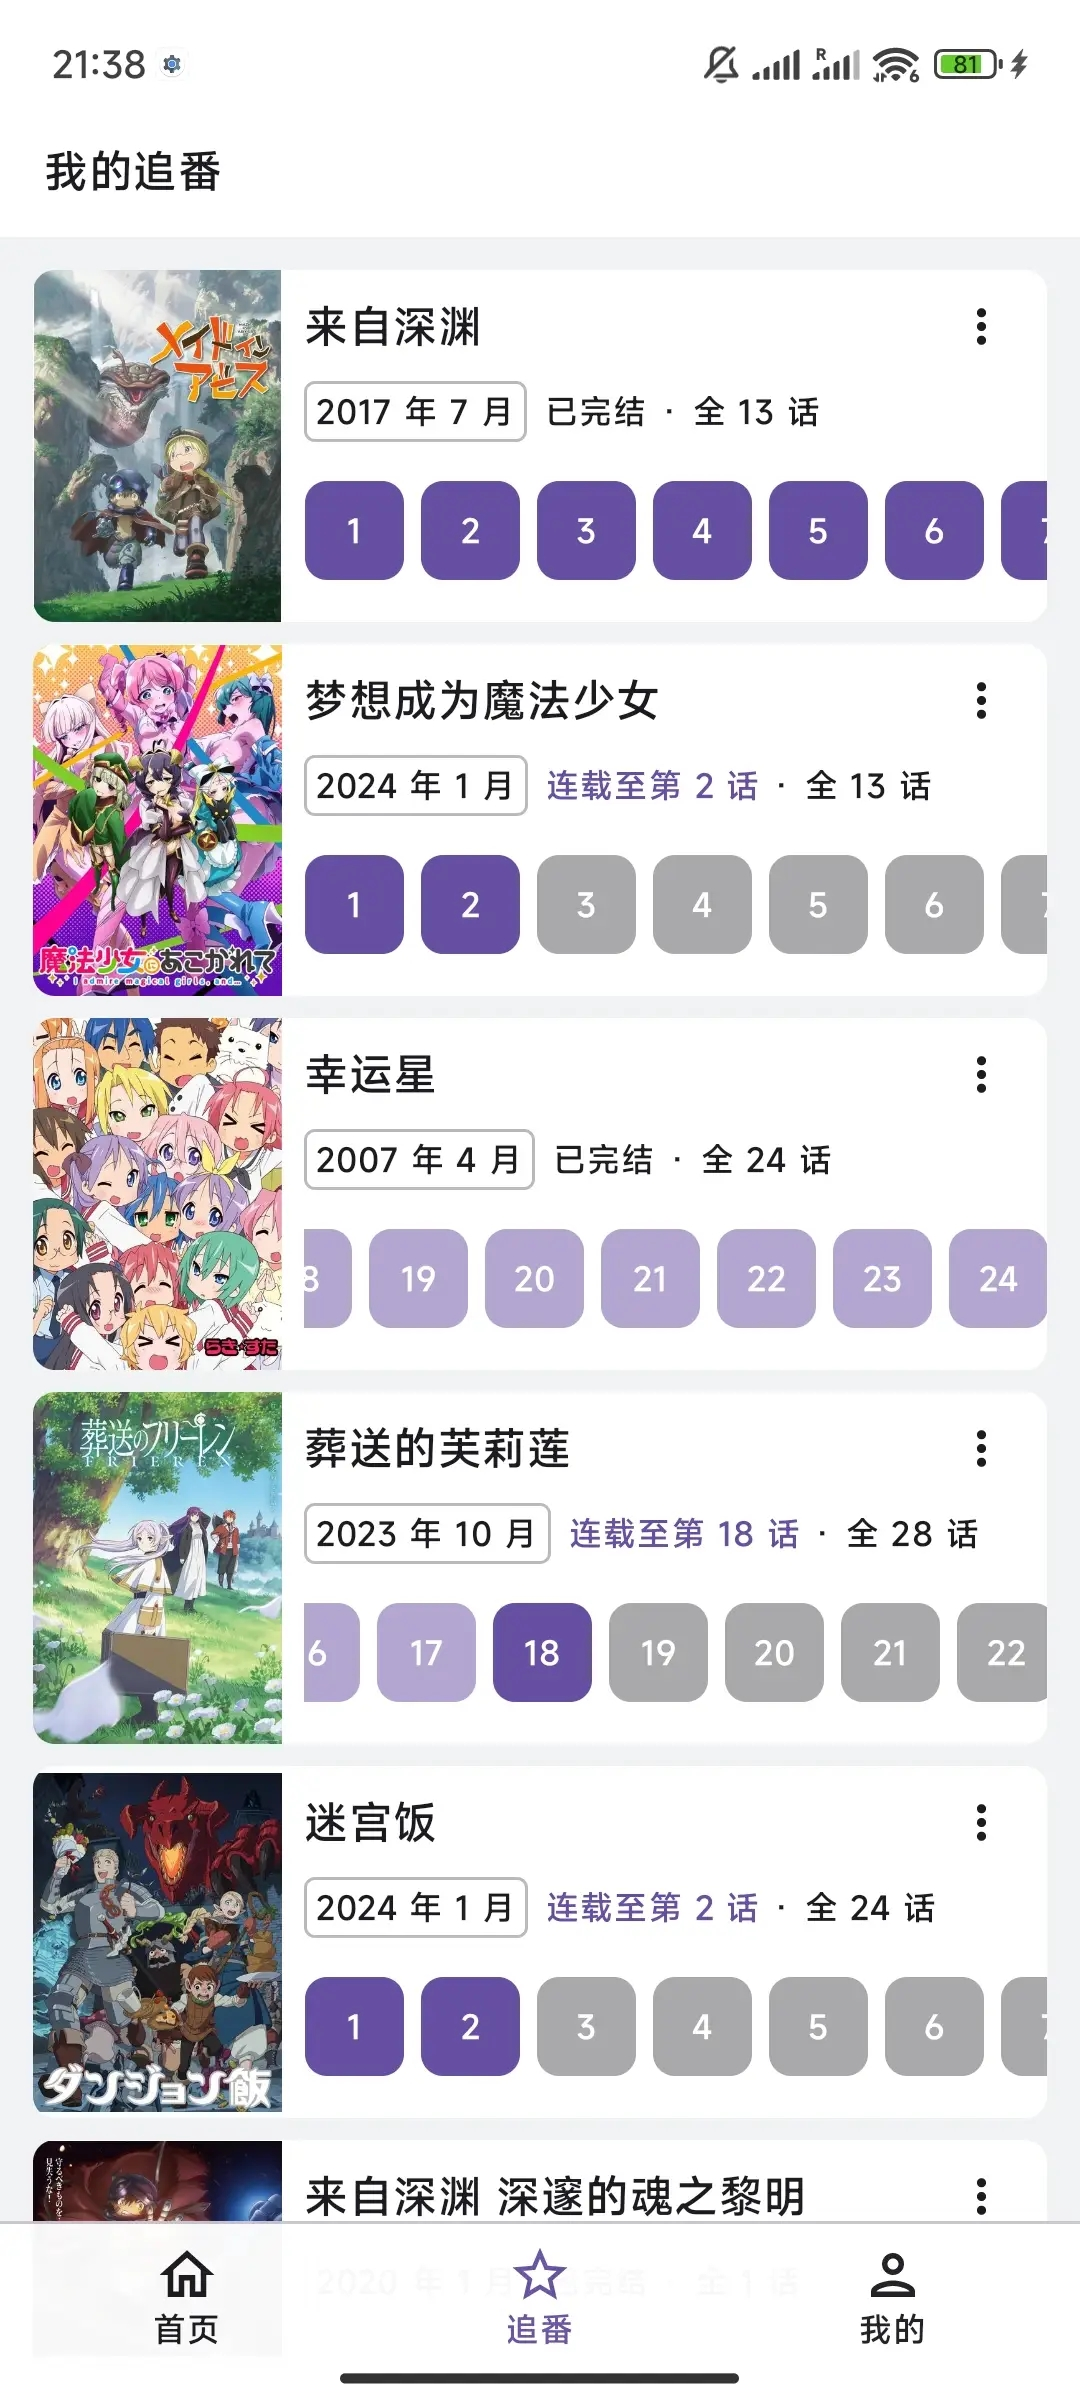
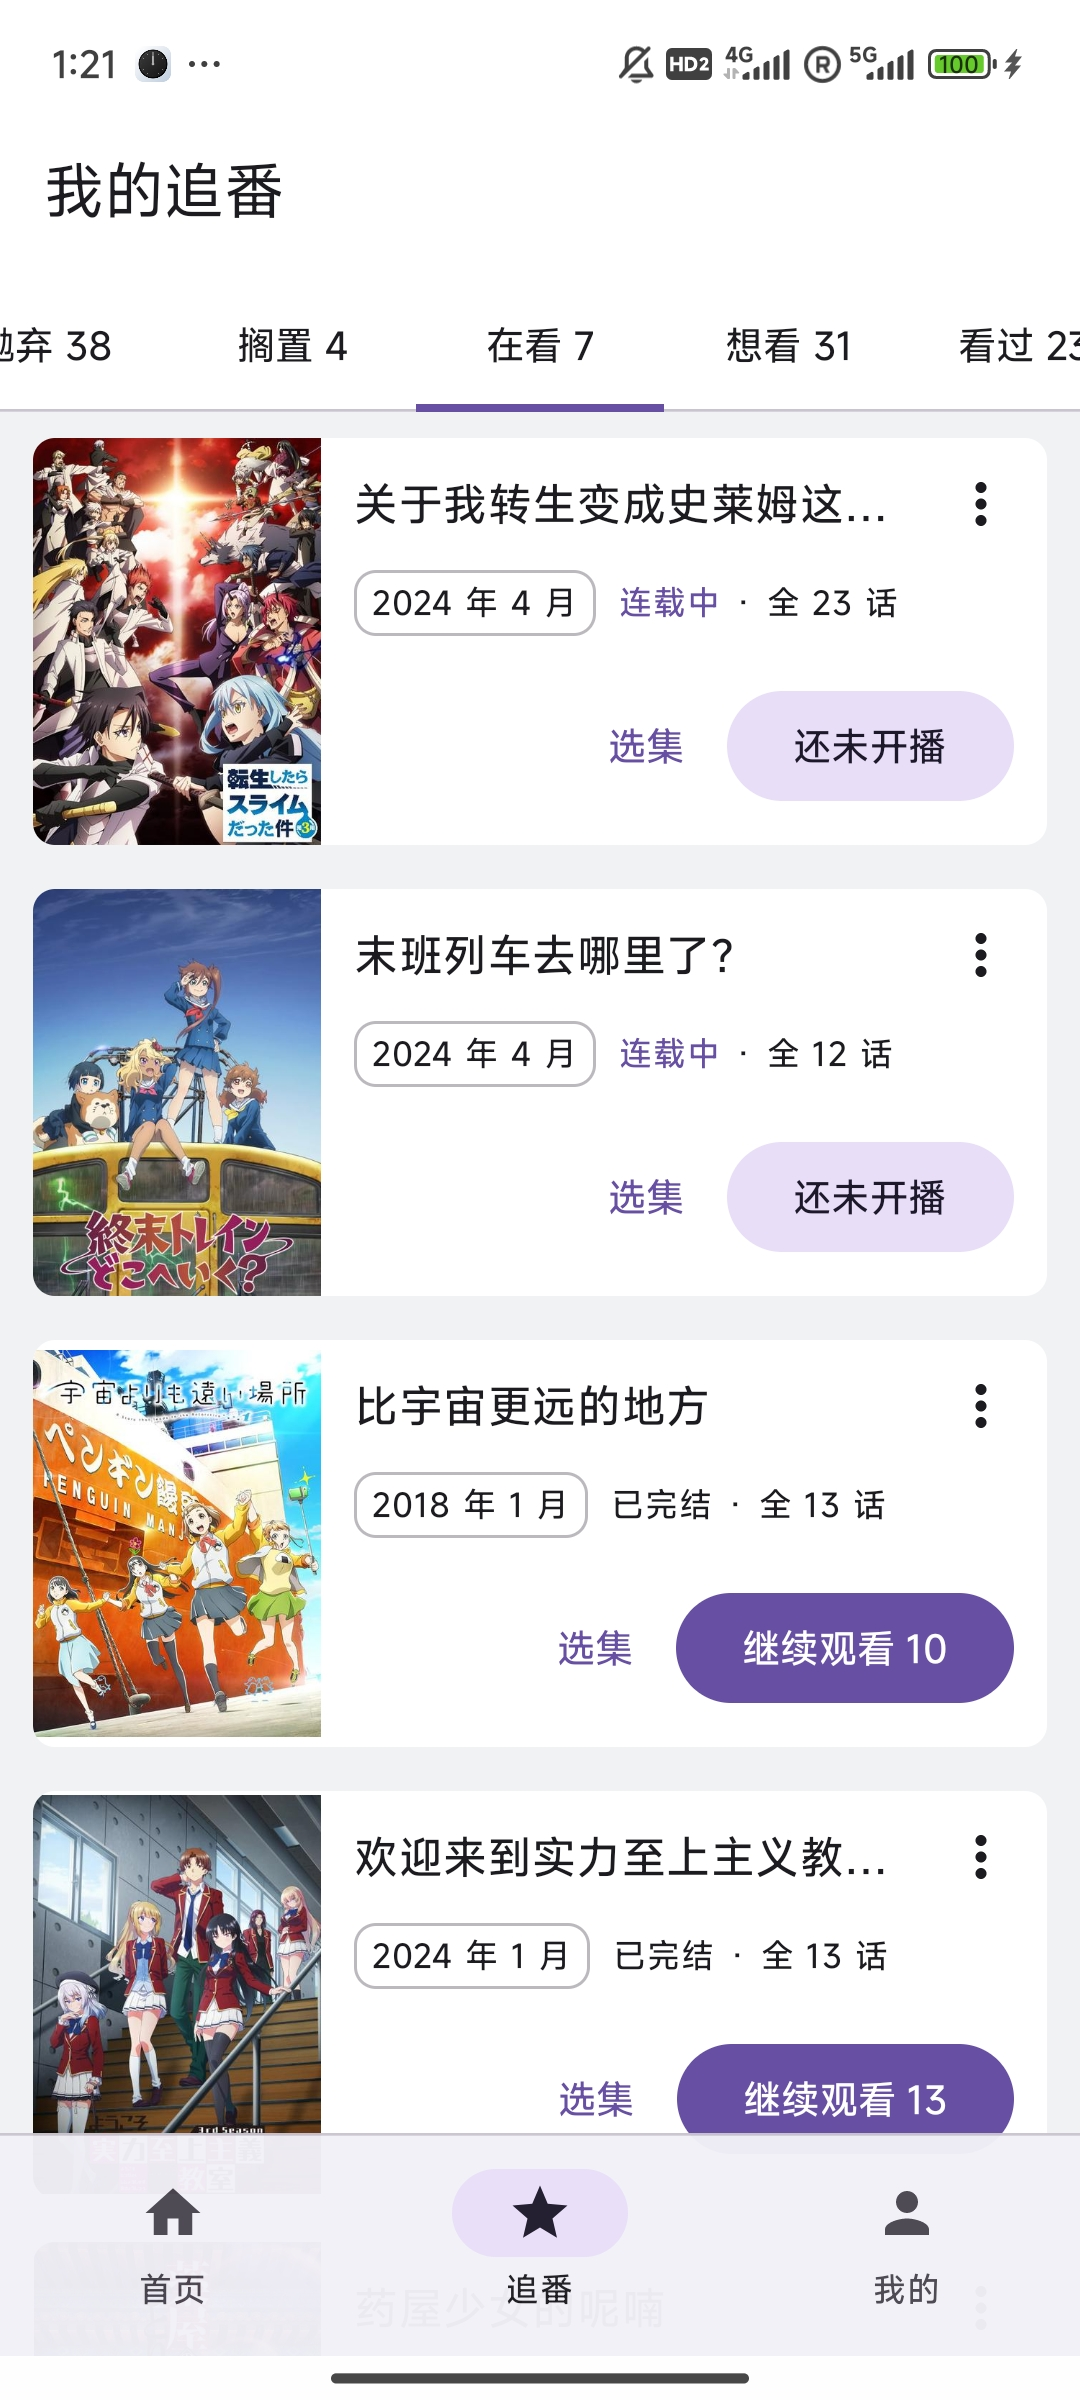
Update README

diff --git a/README.md b/README.md
@@ -8,21 +8,21 @@
 
 [Compose Multiplatform]: https://www.jetbrains.com/lp/compose-mpp/
 
+[acg.rip]: https://acg.rip
+
 集找番、追番、弹幕看番的一站式追番平台。
 
-使用 [Bangumi][Bangumi] 的番剧索引以及观看记录功能，支持 [动漫花园][dmhy]
-等下载源，未来接入[弹弹play][ddplay]等平台实现在线弹幕播放。
+使用 [Bangumi][Bangumi] 的番剧索引以及观看记录功能，支持 [动漫花园][dmhy] 和 [acg.rip][acg.rip]
+数据源，接入[弹弹play][ddplay]平台实现在线弹幕播放.
 
 开发重点在于找番和追番的实际体验, 可能不会追求对 Bangumi 功能接入的完整性.
 项目来源于我和朋友的真实追番需求: 记录追番进度, 下载字幕组资源等.
 
-> 我不是专业客户端开发人员, 开发纯属兴趣, 不过比较讲究代码质量, 欢迎各位指点.
+> 我不是专业客户端开发人员, 开发纯属兴趣, 不过有点讲究代码质量, 欢迎各位指点.
 
 ## 3.0 开发进程
 
-Ani 3.0 **正在**开发中. 继续使用 [Compose Multiplatform] 实现多平台, 将私有追番进度服务器改为使用
-Bangumi,
-并从 Bangumi 获取番剧信息以及相关评论等.
+Ani 3.0 **正在**开发中. 跨平台架构. UI 框架使用 [Compose Multiplatform].
 
 ### 参与开发
 
@@ -33,31 +33,34 @@ Bangumi,
 
 Ani 支持 Android 和桌面端 (macOS、Linux、Windows)。
 
-3.0 重构还在进行中, 3.0 测试版可以在 [releases](https://github.com/Him188/ani/releases/latest)
-中的 "Assets" 下载最新正式版本。(注意: 2.0 与 3.0 完全不同)
+3.0 开发还在进行中, 我会每隔几个修改发布一个 beta 测试版本,
+请关注 [releases](https://github.com/Him188/ani/releases/latest)
+以下载最新正式版本。(注意: 2.0 与 3.0 完全不同, 不建议使用 2.0 (*它大概率已经不能用了*))
 
-3.0 开发测试版本可以在每个 commit 的 macos-12 构建中找到。
+测试版本有*非常多*问题, ~*目前请不要抱有太大期望*~. 欢迎测试并在 issue 反馈问题.
 
-## 未来 3.0 功能截图
+## 功能截图
 
 快速开发中, 我每隔几天会更一下截图. 实际样式请以最新版本为准.
 
-采用 Material 3 风格 (略有根据个人审美调整), 支持同步系统的浅色和深色主题。
+主要采用 Material 3 风格, 支持同步系统的浅色和深色主题.
+
+因为使用的是安卓原生 Compose, 应用可全程保持屏幕刷新率运行.
 
 ### 登录
 
 使用 Bangumi OAuth (浏览器) 登录, 即软件会跳转到 Bangumi 官网授权, 不要求在客户端内输入账号密码.
 
-### 个人收藏页面
+### 管理追番
 
 - 同步 Bangumi 收藏
-- 支持修改收藏状态
-- "已完结" / "连载至" 标签展示连载情况
-- 自动滚动到上次观看的剧集, 已观看过的剧集展示颜色更浅
+- 快捷修改收藏状态
+- 按"在看/想看/看过"分类
+- 快速跳转到下一集
 
 <img width="300" src=".readme/images/collection/collection-light.jpeg" alt="collection-light"/> <img width="300" src=".readme/images/collection/collection-dark.jpg" alt="collection-dark"/>
 
-### 番剧详情页面
+### 条目详情
 
 根据一般人找番时会关注的如下几点设计:
 
@@ -69,47 +72,47 @@ Ani 支持 Android 和桌面端 (macOS、Linux、Windows)。
 - 追番人数
 - 评分 *(计划实现)*
 
-待 3.0 正式版发布后的未来会增加其他更多补充信息.
-
 <img width="300" src=".readme/images/subject/subject-light.jpeg" alt="subject-light"/> <img width="300" src=".readme/images/subject/subject-dark.jpg" alt="subject-dark"/>
-
-### 剧集详情
-
-- 后台自动从[动漫花园][dmhy]拉取字幕组资源并解析标题
-- 支持选择一般人最关心的参数: 清晰度, 字幕语言, 字幕组
-- 默认选择第一个字幕组, 无需配置即可自动播放
-- 手动修改字幕组后会为此番剧记住字幕组选择, 下次自动选择
-
-<img width="300" src=".readme/images/episode/episode-dark.jpg" alt="episode-dark"/> <img width="300" src=".readme/images/episode/episode-playsource-dark.jpg" alt="episode-light"/>
 
 ### 在线视频播放
 
-- 选择字幕组后自动开始播放.
-- 第一个里程碑会支持播放/暂停, 显示播放进度, 拖动进度条, 切换全屏/小窗.
-- 播放完成后自动标记为已观看, 并跳转到下一集.
-- 倍速播放, 手势调音量等辅助功能将在之后的里程碑实现.
+- 从[动漫花园][dmhy]与[acg.rip](https://acg.rip)拉取字幕组资源
+- 支持按清晰度, 字幕语言与字幕组选择视频源
+- 手动修改字幕组后下次播放会自动选择
+
+<img width="300" src=".readme/images/episode/episode-dark.jpg" alt="episode-dark"/> <img width="300" src=".readme/images/episode/episode-playsource-dark.jpg" alt="episode-light"/>
+
+视频手势:
+
+- 双击屏幕切换播放/暂停
+- 左右滑动屏幕快进/快退
+- 在屏幕右边上下滑动调整音量
+
+- *倍速播放等其他辅助功能将在之后的里程碑实现*
 
 <img width="300" src=".readme/images/episode/episode-player-loading.jpg" alt="episode-player-loading"/> <img width="300" src=".readme/images/episode/episode-player-playing.jpg" alt="episode-player-playing"/>
 
-### 全屏播放
+### 视频弹幕
+
+- 从 [弹弹play][ddplay] 获取弹幕
 
 <img width="600" src=".readme/images/episode/episode-player-fullscreen.jpg" alt="episode-player-fullscreen"/>
 
-### 弹幕与评论
+<img width="600" src=".readme/images/episode/episode-player-fullscreen-controller.jpg" alt="episode-player-fullscreen"/>
 
-计划中, 将在第二个里程碑支持.
+### 评论
 
-### 标题 / 标签搜索页面
+UI 写好了, 但是 Bangumi 目前没提供评论的 API, 在考虑怎么解决.
+
+### 以标题搜索
 
 在首页, 目前支持使用标题关键词搜索. 其他搜索方式计划实现中.
 
 ### 桌面端
 
-Compose 在安卓上的预览和生态比较好, 因此先做了安卓. 桌面端一定会开发, 因为我个人平常看番主要使用桌面端.
+除了 (目前) 不支持视频播放以外, 与 Android 端功能一致. 可使用 "下载" 功能跳转到外部下载器下载视频.
 
-桌面端计划初版不会做视频播放, 只做跳转下载. 桌面端做好后移动端也将会支持平板模式 (复用).
-
-桌面端视频播放功能可能会用外置播放器, 配合悬浮窗弹幕引擎? 如有更好方案欢迎指点.
+桌面端视频播放功能未来可能会用外置播放器, 配合悬浮窗弹幕引擎? 如有更好方案欢迎指点.
 
 ## 提示
 
